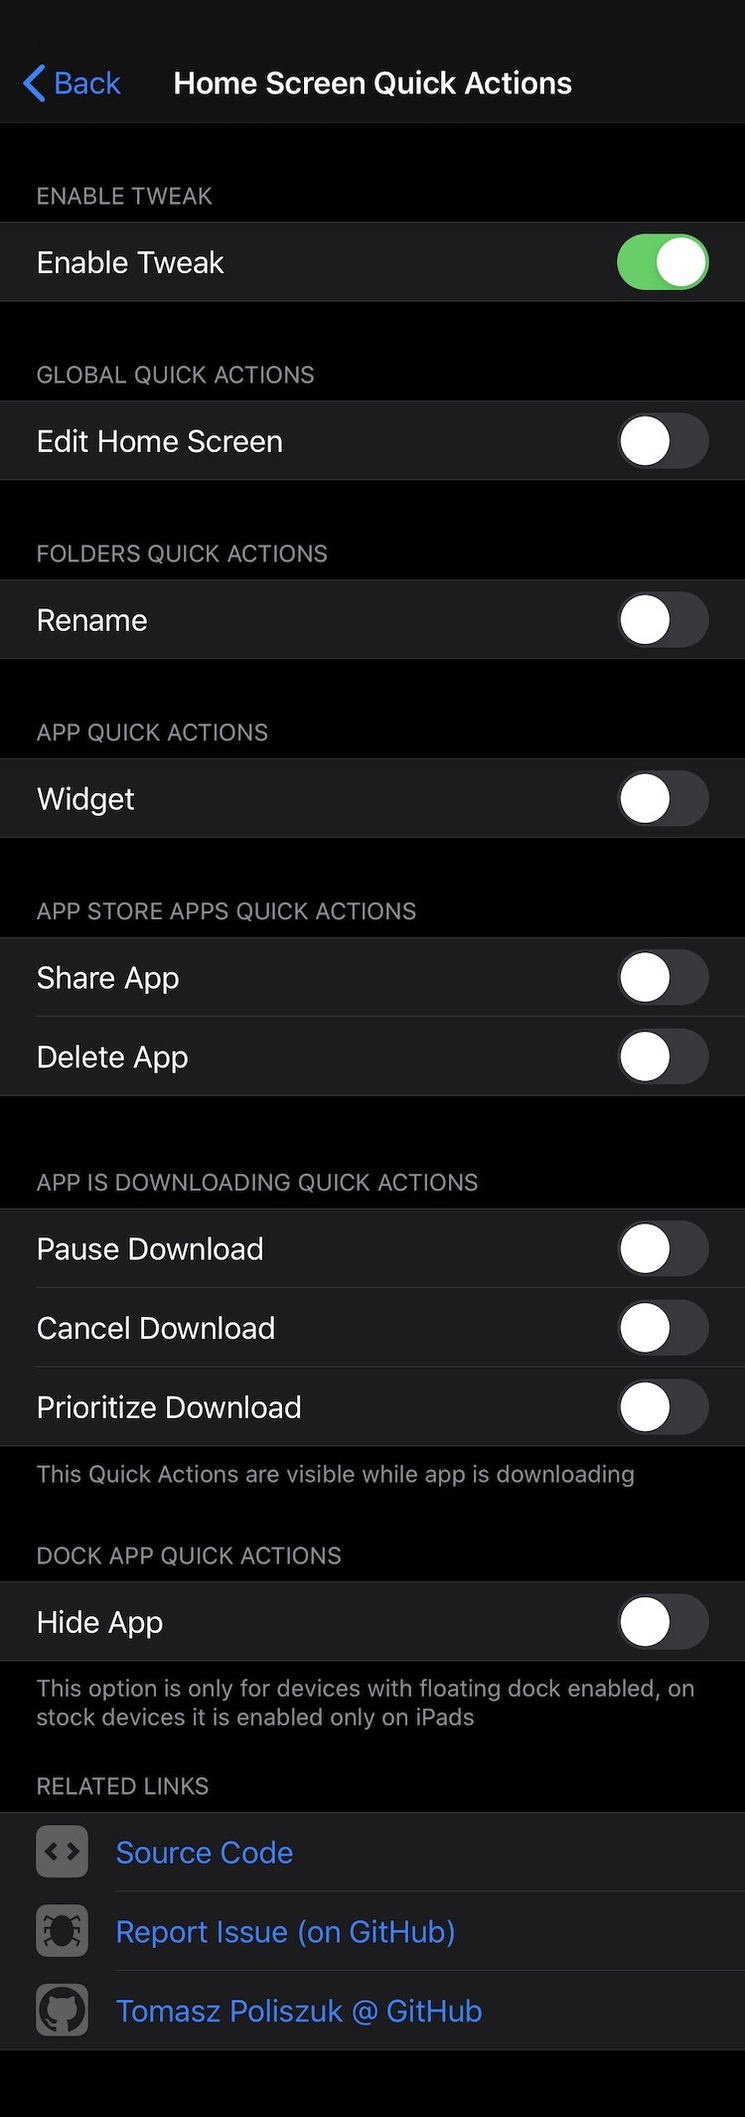
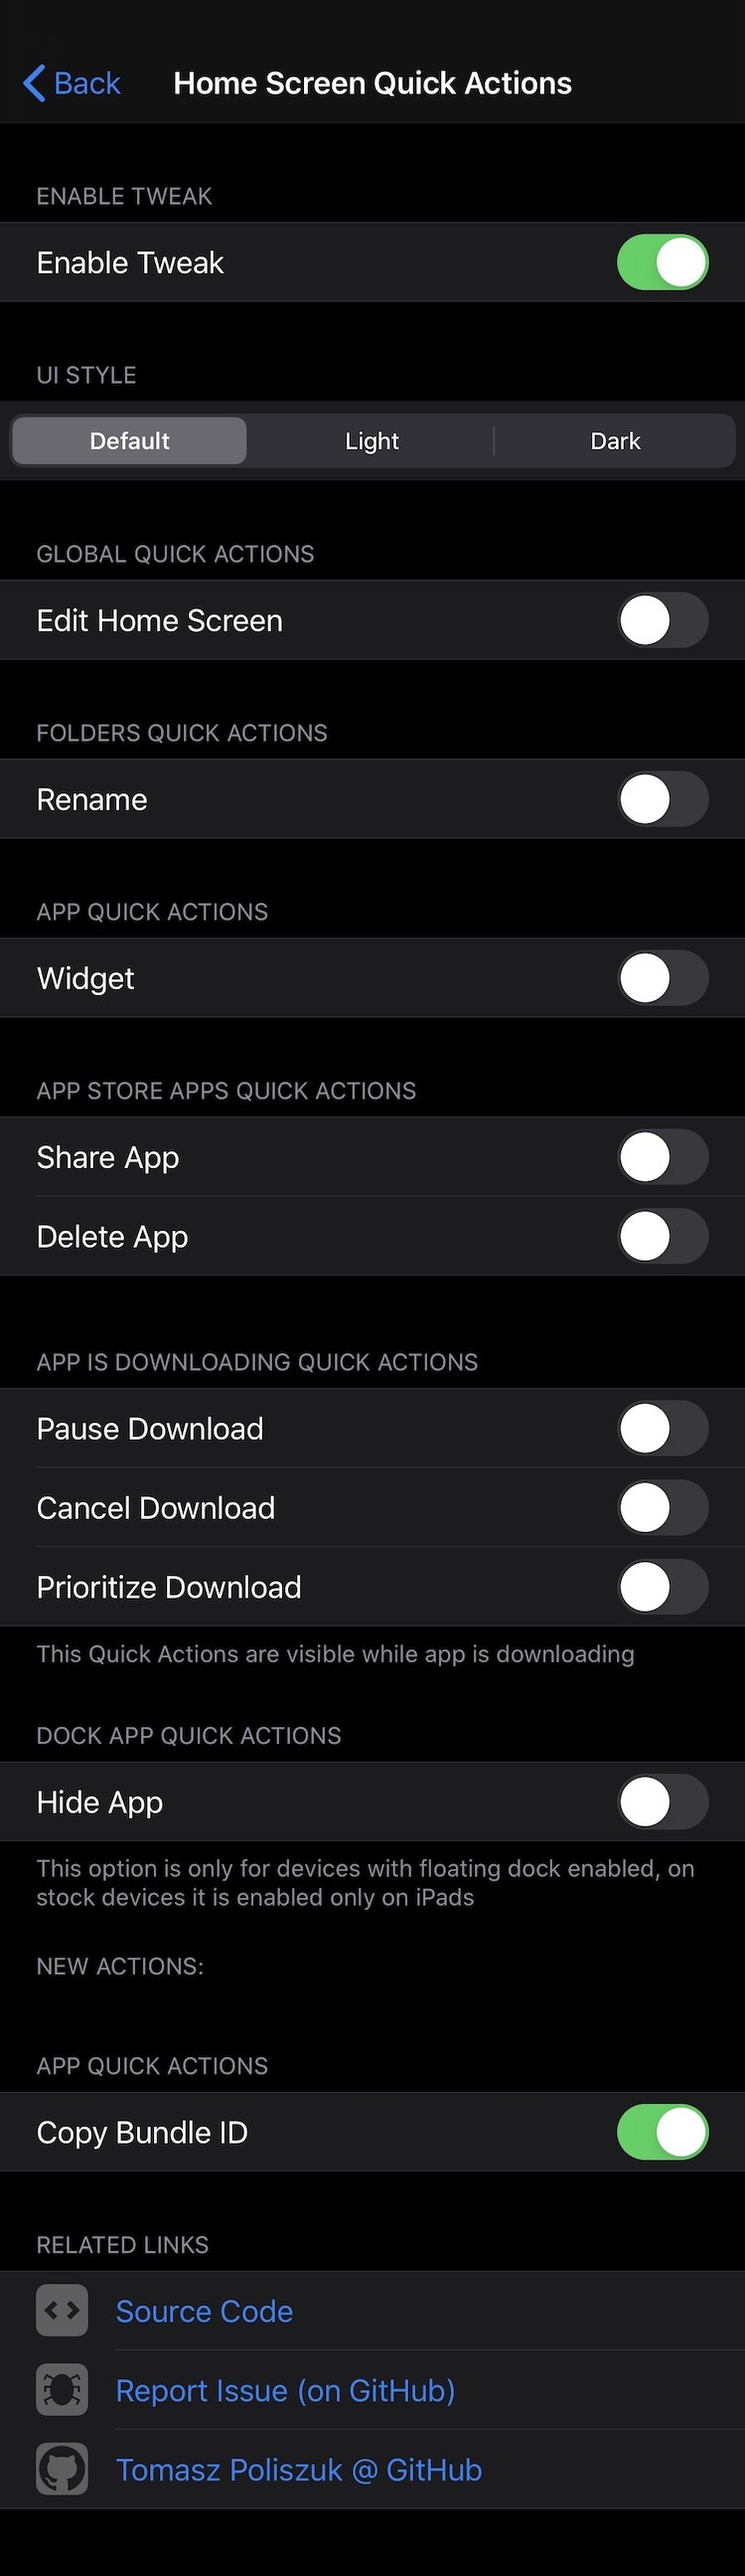
Added ability to choose UI Style of Home Screen Quick Actions

diff --git a/README.md b/README.md
@@ -2,26 +2,20 @@
 
 **Requires iOS greater or equal to 13**
 
-**Global Quick actions:**
+**Possibilities:**
+*control UI Style of Home Screen Quick Actions*
+*Turn On/Turn Off default Home Screen Quick Actions:*
 - Edit Home Screen
-
-**Folders Quick actions:**
 - Rename
-
-**App Quick Actions:**
 - Widget
-
-**App Store apps Quick actions:**
 - Share App
 - Delete App
-
-**App Quick actions visible while app is downloading:**
 - Pause Download
 - Cancel Download
 - Prioritize Download
-
-**Dock Quick app actions:**
 - Hide App (This option is only for devices with floating dock enabled, on stock devices it is enabled only on iPads)
+*Turn On/Turn Off additional Home Screen Quick Actions:*
+- Copy Bundle ID
 
 Configure options from Settings.
 
